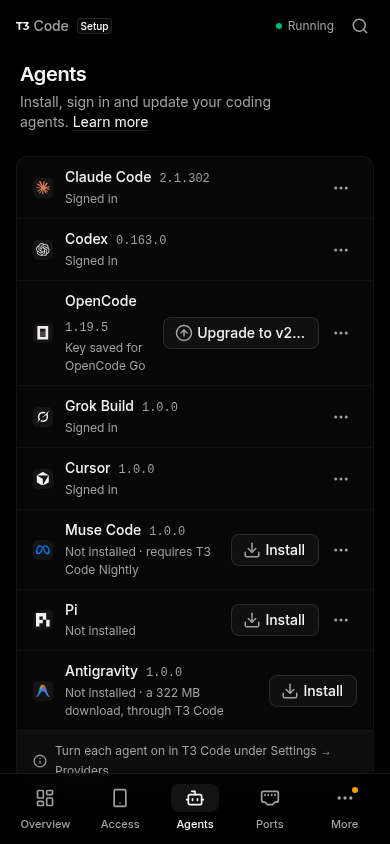
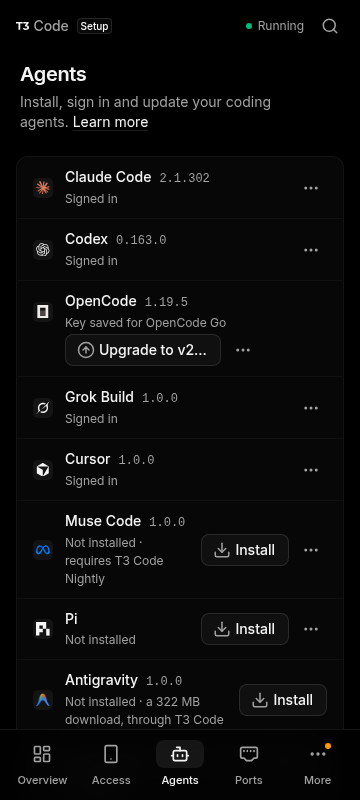
fix(setup): wrap major-upgrade actions on phones

diff --git a/scripts/auto-update-ui-audit.js b/scripts/auto-update-ui-audit.js
@@ -22,6 +22,13 @@ const freshPolicy = () => ({
 const geometry = () => {
   const issues = [];
   if (document.documentElement.scrollWidth > innerWidth + 1) issues.push(`horizontal page overflow (${document.documentElement.scrollWidth}px > ${innerWidth}px)`);
+  // The longer major-upgrade action can fit the page while leaving too little
+  // space for the agent name. Measure its row text as well as the dialogs.
+  for (const el of document.querySelectorAll('.tc-row:has([data-cmd="harness.upgrade"]) :is(.tc-row-main, .tc-row-title)')) {
+    const rect = el.getBoundingClientRect(), style = getComputedStyle(el);
+    if (rect.width && rect.height && ['visible', 'clip'].includes(style.overflowX)
+      && el.scrollWidth > el.clientWidth + 1) issues.push(`${el.className} clipped (${el.scrollWidth}px > ${el.clientWidth}px)`);
+  }
   for (const panel of document.querySelectorAll('.tc-layer [role="dialog"], .tc-layer [role="alertdialog"]')) {
     const rect = panel.getBoundingClientRect();
     if (rect.left < -1 || rect.top < -1 || rect.right > innerWidth + 1 || rect.bottom > innerHeight + 1) {

diff --git a/docker/setup/app.js b/docker/setup/app.js
@@ -670,7 +670,7 @@
         ${noticeError ? html`<span class="tc-status" role="alert">${dot('danger')}<span class="tc-status-text">${noticeError.text}${detail('notice')}</span></span>` : noticeLine(row.notice)}
         ${row.state === 'running' ? opLine(row) : ''}
       </div>
-      <div class="${cx('tc-row-actions', opts.wrap && 'tc-row-actions--wrap')}">${actionButton(row, opts)}${opts.menu === false ? '' : menuButton(row)}</div>
+      <div class="${cx('tc-row-actions', (opts.wrap || row.action?.cmd === 'harness.upgrade') && 'tc-row-actions--wrap')}">${actionButton(row, opts)}${opts.menu === false ? '' : menuButton(row)}</div>
     </div>`;
   };
 
